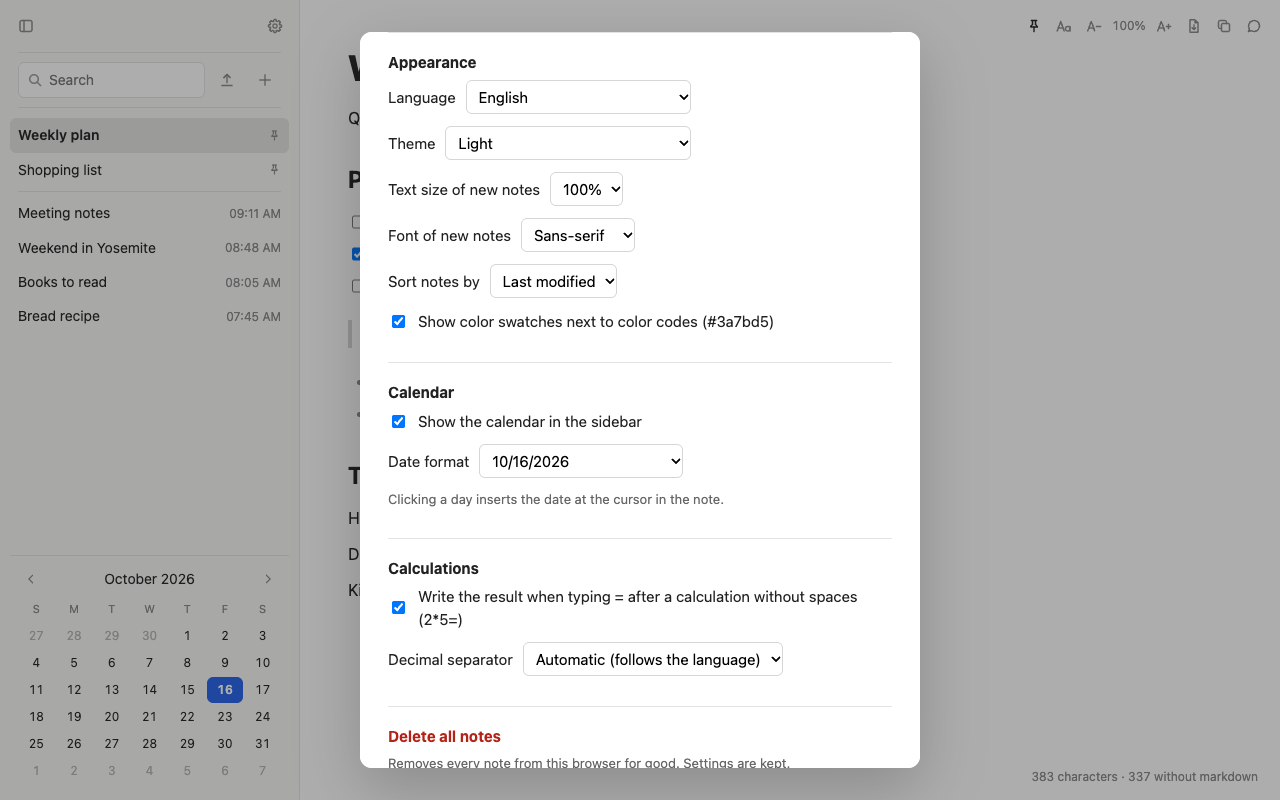
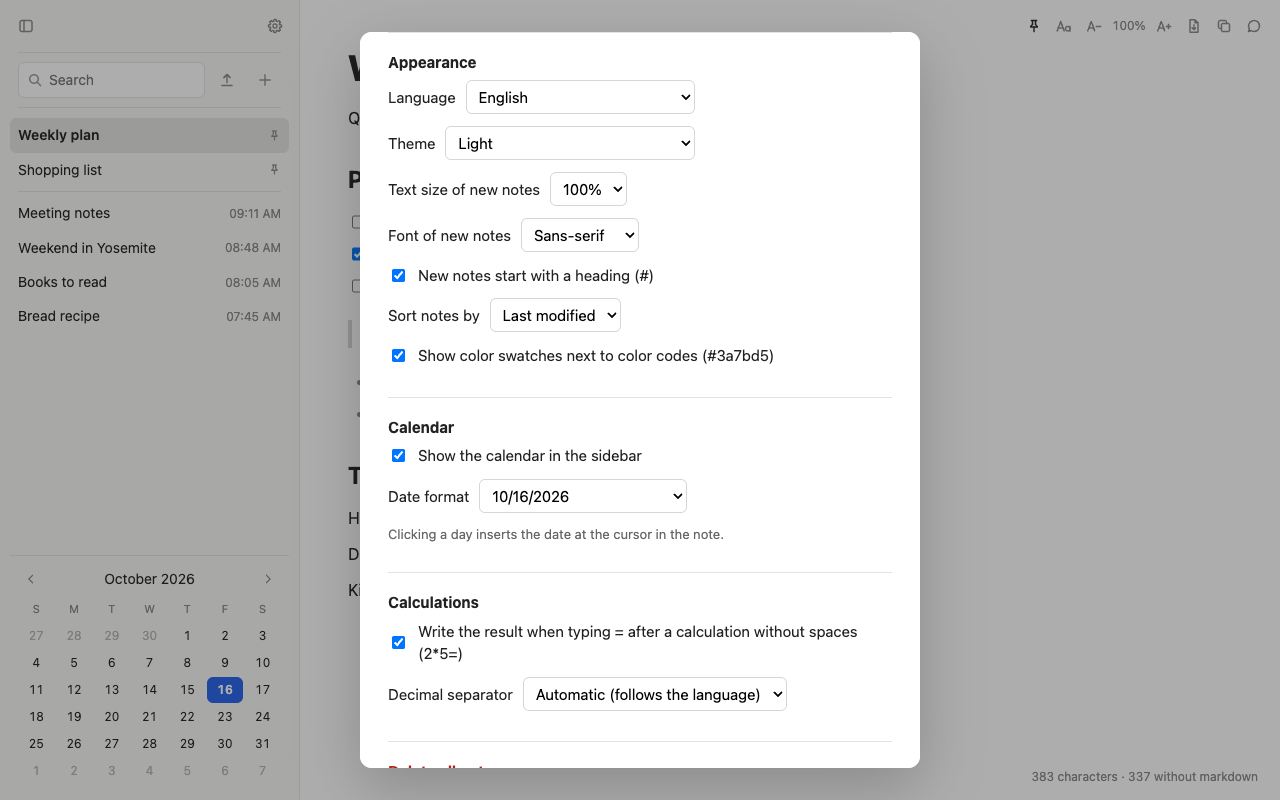
New notes start with a level-1 heading (setting on by default)

Changed region(s): [[0.2812, 0.4375, 0.6562, 0.9062], [0.2812, 0.3125, 0.5938, 0.4062], [0.3125, 0.9062, 0.625, 0.9688]]

diff --git a/src/backup.test.ts b/src/backup.test.ts
@@ -41,9 +41,9 @@ beforeEach(() => {
 
 describe('createBackup', () => {
   test('follows the SPEC format and includes each note in markdown', () => {
-    const backup = createBackup([fullNote()], { autoBackupMinutes: 60, sidebarCollapsed: false, theme: 'auto', noteSort: 'updated', noteFont: 'sans', newNoteFont: 'sans', newNoteTextSize: 100, language: 'auto', showCalendar: false, dateFormat: 'long', colorSwatches: true, calculations: true, decimalSeparator: 'auto' }, 999)
+    const backup = createBackup([fullNote()], { autoBackupMinutes: 60, sidebarCollapsed: false, theme: 'auto', noteSort: 'updated', noteFont: 'sans', newNoteFont: 'sans', newNoteTextSize: 100, language: 'auto', showCalendar: false, dateFormat: 'long', colorSwatches: true, calculations: true, decimalSeparator: 'auto', newNoteHeading: true }, 999)
     expect(backup).toMatchObject({ app: 'draftab', version: 1, exportedAt: 999 })
-    expect(backup.settings).toEqual({ autoBackupMinutes: 60, sidebarCollapsed: false, theme: 'auto', noteSort: 'updated', noteFont: 'sans', newNoteFont: 'sans', newNoteTextSize: 100, language: 'auto', showCalendar: false, dateFormat: 'long', colorSwatches: true, calculations: true, decimalSeparator: 'auto' })
+    expect(backup.settings).toEqual({ autoBackupMinutes: 60, sidebarCollapsed: false, theme: 'auto', noteSort: 'updated', noteFont: 'sans', newNoteFont: 'sans', newNoteTextSize: 100, language: 'auto', showCalendar: false, dateFormat: 'long', colorSwatches: true, calculations: true, decimalSeparator: 'auto', newNoteHeading: true })
     expect(backup.notes[0].markdown).toBe('# Ideas\n\none **bold**\n\n- [x] done\n\n---')
   })
 })
@@ -51,13 +51,13 @@ describe('createBackup', () => {
 describe('round trip', () => {
   test('exporting and importing returns exactly the same notes', () => {
     const notes = [fullNote(), simpleNote('another', 50)]
-    const file = JSON.stringify(createBackup(notes, { autoBackupMinutes: 0, sidebarCollapsed: true, theme: 'auto', noteSort: 'updated', noteFont: 'sans', newNoteFont: 'sans', newNoteTextSize: 100, language: 'auto', showCalendar: true, dateFormat: 'numeric', colorSwatches: true, calculations: true, decimalSeparator: 'auto' }))
+    const file = JSON.stringify(createBackup(notes, { autoBackupMinutes: 0, sidebarCollapsed: true, theme: 'auto', noteSort: 'updated', noteFont: 'sans', newNoteFont: 'sans', newNoteTextSize: 100, language: 'auto', showCalendar: true, dateFormat: 'numeric', colorSwatches: true, calculations: true, decimalSeparator: 'auto', newNoteHeading: true }))
     expect(notesFromBackup(parseBackup(file))).toEqual(notes)
   })
 
   test("each note's text size goes into the file and comes back; old backups without it get 100%", () => {
     const big = { ...simpleNote('big', 1), textSize: 150 }
-    const backup = createBackup([big], { autoBackupMinutes: 0, sidebarCollapsed: false, theme: 'auto', noteSort: 'updated', noteFont: 'sans', newNoteFont: 'sans', newNoteTextSize: 100, language: 'auto', showCalendar: true, dateFormat: 'numeric', colorSwatches: true, calculations: true, decimalSeparator: 'auto' })
+    const backup = createBackup([big], { autoBackupMinutes: 0, sidebarCollapsed: false, theme: 'auto', noteSort: 'updated', noteFont: 'sans', newNoteFont: 'sans', newNoteTextSize: 100, language: 'auto', showCalendar: true, dateFormat: 'numeric', colorSwatches: true, calculations: true, decimalSeparator: 'auto', newNoteHeading: true })
     expect(backup.notes[0].textSize).toBe(150)
     expect(notesFromBackup(parseBackup(JSON.stringify(backup)))[0].textSize).toBe(150)
     const { textSize: _textSize, ...old } = backup.notes[0]
@@ -66,7 +66,7 @@ describe('round trip', () => {
 
   test("each note's font goes into the file and comes back; notes without one stay without", () => {
     const serif = { ...simpleNote('serif', 1), font: 'serif' as const }
-    const settings = { autoBackupMinutes: 0, sidebarCollapsed: false, theme: 'auto', noteSort: 'updated', noteFont: 'mono', newNoteFont: 'sans', newNoteTextSize: 100, language: 'auto', showCalendar: true, dateFormat: 'numeric', colorSwatches: true, calculations: true, decimalSeparator: 'auto' } as const
+    const settings = { autoBackupMinutes: 0, sidebarCollapsed: false, theme: 'auto', noteSort: 'updated', noteFont: 'mono', newNoteFont: 'sans', newNoteTextSize: 100, language: 'auto', showCalendar: true, dateFormat: 'numeric', colorSwatches: true, calculations: true, decimalSeparator: 'auto', newNoteHeading: true } as const
     const { font: _font, ...old } = simpleNote('old', 2) // from before fonts were per note
     const backup = createBackup([serif, old], settings)
     const restored = notesFromBackup(parseBackup(JSON.stringify(backup)))
@@ -78,7 +78,7 @@ describe('round trip', () => {
 
   test('pinned notes go into the file and come back; old backups without it import as not pinned', () => {
     const pinned = { ...simpleNote('pinned', 1), pinned: true }
-    const settings = { autoBackupMinutes: 0, sidebarCollapsed: false, theme: 'auto', noteSort: 'updated', noteFont: 'sans', newNoteFont: 'sans', newNoteTextSize: 100, language: 'auto', showCalendar: true, dateFormat: 'numeric', colorSwatches: true, calculations: true, decimalSeparator: 'auto' } as const
+    const settings = { autoBackupMinutes: 0, sidebarCollapsed: false, theme: 'auto', noteSort: 'updated', noteFont: 'sans', newNoteFont: 'sans', newNoteTextSize: 100, language: 'auto', showCalendar: true, dateFormat: 'numeric', colorSwatches: true, calculations: true, decimalSeparator: 'auto', newNoteHeading: true } as const
     const backup = createBackup([pinned], settings)
     expect(backup.notes[0].pinned).toBe(true)
     expect(notesFromBackup(parseBackup(JSON.stringify(backup)))[0].pinned).toBe(true)
@@ -106,7 +106,7 @@ describe('round trip', () => {
 describe('settings in the backup', () => {
   test('every setting goes into the file and comes back on import', async () => {
     // Non-default values in every field
-    const chosen = { autoBackupMinutes: 10080, sidebarCollapsed: true, theme: 'dark', noteSort: 'title', noteFont: 'serif', newNoteFont: 'mono', newNoteTextSize: 120, language: 'pt', showCalendar: false, dateFormat: 'short', colorSwatches: false, calculations: false, decimalSeparator: ',' } as const
+    const chosen = { autoBackupMinutes: 10080, sidebarCollapsed: true, theme: 'dark', noteSort: 'title', noteFont: 'serif', newNoteFont: 'mono', newNoteTextSize: 120, language: 'pt', showCalendar: false, dateFormat: 'short', colorSwatches: false, calculations: false, decimalSeparator: ',', newNoteHeading: false } as const
     await saveSettings(chosen)
     await saveNote(simpleNote('x', 1))
     const file = JSON.stringify(createBackup(await listNotes(), await readSettings()))
@@ -114,7 +114,7 @@ describe('settings in the backup', () => {
 
     // Reset everything to the defaults and import
     await replaceAll([], {})
-    expect(await readSettings()).toEqual({ autoBackupMinutes: 0, sidebarCollapsed: false, theme: 'auto', noteSort: 'updated', noteFont: 'sans', newNoteFont: 'sans', newNoteTextSize: 100, language: 'auto', showCalendar: true, dateFormat: 'numeric', colorSwatches: true, calculations: true, decimalSeparator: 'auto' })
+    expect(await readSettings()).toEqual({ autoBackupMinutes: 0, sidebarCollapsed: false, theme: 'auto', noteSort: 'updated', noteFont: 'sans', newNoteFont: 'sans', newNoteTextSize: 100, language: 'auto', showCalendar: true, dateFormat: 'numeric', colorSwatches: true, calculations: true, decimalSeparator: 'auto', newNoteHeading: true })
     const backup = parseBackup(file)
     await replaceAll(notesFromBackup(backup), backup.settings)
     expect(await readSettings()).toEqual(chosen)
@@ -125,12 +125,12 @@ describe('settings in the backup', () => {
     const settings = await readSettings()
     const backup = createBackup([], settings)
     expect(Object.keys(backup.settings).sort()).toEqual(Object.keys(settings).sort())
-    expect(Object.keys(settings).sort()).toEqual(['autoBackupMinutes', 'calculations', 'colorSwatches', 'dateFormat', 'decimalSeparator', 'language', 'newNoteFont', 'newNoteTextSize', 'noteFont', 'noteSort', 'showCalendar', 'sidebarCollapsed', 'theme'])
+    expect(Object.keys(settings).sort()).toEqual(['autoBackupMinutes', 'calculations', 'colorSwatches', 'dateFormat', 'decimalSeparator', 'language', 'newNoteFont', 'newNoteHeading', 'newNoteTextSize', 'noteFont', 'noteSort', 'showCalendar', 'sidebarCollapsed', 'theme'])
   })
 })
 
 describe('parseBackup rejects invalid files', () => {
-  const valid = () => createBackup([simpleNote('a', 1)], { autoBackupMinutes: 0, sidebarCollapsed: false, theme: 'auto', noteSort: 'updated', noteFont: 'sans', newNoteFont: 'sans', newNoteTextSize: 100, language: 'auto', showCalendar: true, dateFormat: 'numeric', colorSwatches: true, calculations: true, decimalSeparator: 'auto' })
+  const valid = () => createBackup([simpleNote('a', 1)], { autoBackupMinutes: 0, sidebarCollapsed: false, theme: 'auto', noteSort: 'updated', noteFont: 'sans', newNoteFont: 'sans', newNoteTextSize: 100, language: 'auto', showCalendar: true, dateFormat: 'numeric', colorSwatches: true, calculations: true, decimalSeparator: 'auto', newNoteHeading: true })
   const withNote = (change: Record<string, unknown>) => {
     const b = valid()
     return JSON.stringify({ ...b, notes: [{ ...b.notes[0], ...change }] })
@@ -155,7 +155,7 @@ describe('parseBackup rejects invalid files', () => {
   })
 
   test('a backup with no notes is valid', () => {
-    const empty = createBackup([], { autoBackupMinutes: 0, sidebarCollapsed: false, theme: 'auto', noteSort: 'updated', noteFont: 'sans', newNoteFont: 'sans', newNoteTextSize: 100, language: 'auto', showCalendar: true, dateFormat: 'numeric', colorSwatches: true, calculations: true, decimalSeparator: 'auto' })
+    const empty = createBackup([], { autoBackupMinutes: 0, sidebarCollapsed: false, theme: 'auto', noteSort: 'updated', noteFont: 'sans', newNoteFont: 'sans', newNoteTextSize: 100, language: 'auto', showCalendar: true, dateFormat: 'numeric', colorSwatches: true, calculations: true, decimalSeparator: 'auto', newNoteHeading: true })
     expect(parseBackup(JSON.stringify(empty)).notes).toEqual([])
   })
 })

diff --git a/src/storage.test.ts b/src/storage.test.ts
@@ -8,6 +8,7 @@ import {
   listNotes,
   onNewNoteTextSizeChanged,
   onNewNoteFontChanged,
+  onNewNoteHeadingChanged,
   onNoteSortChanged,
   onNotesChanged,
   onDateFormatChanged,
@@ -103,13 +104,13 @@ describe('notes', () => {
 
 describe('settings', () => {
   test('with nothing saved, uses the defaults', async () => {
-    expect(await readSettings()).toEqual({ autoBackupMinutes: 0, sidebarCollapsed: false, theme: 'auto', noteSort: 'updated', noteFont: 'sans', newNoteFont: 'sans', newNoteTextSize: 100, language: 'auto', showCalendar: true, dateFormat: 'numeric', colorSwatches: true, calculations: true, decimalSeparator: 'auto' })
+    expect(await readSettings()).toEqual({ autoBackupMinutes: 0, sidebarCollapsed: false, theme: 'auto', noteSort: 'updated', noteFont: 'sans', newNoteFont: 'sans', newNoteTextSize: 100, language: 'auto', showCalendar: true, dateFormat: 'numeric', colorSwatches: true, calculations: true, decimalSeparator: 'auto', newNoteHeading: true })
   })
 
   test('saving one part keeps the rest', async () => {
     await saveSettings({ autoBackupMinutes: 60 })
     await saveSettings({ sidebarCollapsed: true })
-    expect(await readSettings()).toEqual({ autoBackupMinutes: 60, sidebarCollapsed: true, theme: 'auto', noteSort: 'updated', noteFont: 'sans', newNoteFont: 'sans', newNoteTextSize: 100, language: 'auto', showCalendar: true, dateFormat: 'numeric', colorSwatches: true, calculations: true, decimalSeparator: 'auto' })
+    expect(await readSettings()).toEqual({ autoBackupMinutes: 60, sidebarCollapsed: true, theme: 'auto', noteSort: 'updated', noteFont: 'sans', newNoteFont: 'sans', newNoteTextSize: 100, language: 'auto', showCalendar: true, dateFormat: 'numeric', colorSwatches: true, calculations: true, decimalSeparator: 'auto', newNoteHeading: true })
   })
 })
 
@@ -138,7 +139,7 @@ describe('deleteAllNotes', () => {
     await saveSettings({ autoBackupMinutes: 60, sidebarCollapsed: true })
     await deleteAllNotes()
     expect(await listNotes()).toEqual([])
-    expect(await readSettings()).toEqual({ autoBackupMinutes: 60, sidebarCollapsed: true, theme: 'auto', noteSort: 'updated', noteFont: 'sans', newNoteFont: 'sans', newNoteTextSize: 100, language: 'auto', showCalendar: true, dateFormat: 'numeric', colorSwatches: true, calculations: true, decimalSeparator: 'auto' })
+    expect(await readSettings()).toEqual({ autoBackupMinutes: 60, sidebarCollapsed: true, theme: 'auto', noteSort: 'updated', noteFont: 'sans', newNoteFont: 'sans', newNoteTextSize: 100, language: 'auto', showCalendar: true, dateFormat: 'numeric', colorSwatches: true, calculations: true, decimalSeparator: 'auto', newNoteHeading: true })
   })
 })
 
@@ -223,6 +224,23 @@ describe('text size of new notes', () => {
     await saveSettings({ noteSort: 'title' })
     await saveSettings({ newNoteTextSize: 90 })
     expect(received).toEqual([110, 90])
+  })
+})
+
+describe('new notes start with a heading', () => {
+  test('on by default; invalid values go back to on; tabs are told when it changes', async () => {
+    expect((await readSettings()).newNoteHeading).toBe(true)
+    await saveSettings({ newNoteHeading: false })
+    expect((await readSettings()).newNoteHeading).toBe(false)
+    await chrome.storage.local.set({ settings: { newNoteHeading: 'no' } })
+    expect((await readSettings()).newNoteHeading).toBe(true)
+
+    const values: boolean[] = []
+    await saveSettings({})
+    onNewNoteHeadingChanged((value) => values.push(value))
+    await saveSettings({ newNoteHeading: false })
+    await saveSettings({ theme: 'dark' })
+    expect(values).toEqual([false])
   })
 })
 

diff --git a/src/settings.ts b/src/settings.ts
@@ -29,6 +29,7 @@ const sortSelect = element<HTMLSelectElement>('#note-sort')
 const fontSelect = element<HTMLSelectElement>('#new-note-font')
 const textSizeSelect = element<HTMLSelectElement>('#new-note-text-size')
 const colorSwatchesBox = element<HTMLInputElement>('#color-swatches')
+const newNoteHeadingBox = element<HTMLInputElement>('#new-note-heading')
 const showCalendarBox = element<HTMLInputElement>('#show-calendar')
 const dateFormatSelect = element<HTMLSelectElement>('#date-format')
 const calculationsBox = element<HTMLInputElement>('#calculations')
@@ -41,7 +42,7 @@ closeButton.innerHTML = ICON_CLOSE
 
 export async function openSettings() {
   // Always opens with the current values and nothing left over from last time
-  const { autoBackupMinutes, language, theme, noteSort, newNoteFont, newNoteTextSize, showCalendar, dateFormat, colorSwatches, calculations, decimalSeparator } =
+  const { autoBackupMinutes, language, theme, noteSort, newNoteFont, newNoteTextSize, showCalendar, dateFormat, colorSwatches, calculations, decimalSeparator, newNoteHeading } =
     await readSettings()
   intervalSelect.value = String(autoBackupMinutes)
   languageSelect.value = language
@@ -50,6 +51,7 @@ export async function openSettings() {
   fontSelect.value = newNoteFont
   textSizeSelect.value = String(newNoteTextSize)
   colorSwatchesBox.checked = colorSwatches
+  newNoteHeadingBox.checked = newNoteHeading
   showCalendarBox.checked = showCalendar
   // Each format shown with today's date
   for (const option of dateFormatSelect.options) {
@@ -133,6 +135,11 @@ textSizeSelect.addEventListener('change', () => {
 sortSelect.addEventListener('change', () => {
   // Every tab (this one included) re-sorts its sidebar when it notices the change (onNoteSortChanged)
   saveSettings({ noteSort: sortSelect.value as NoteSort })
+})
+
+newNoteHeadingBox.addEventListener('change', () => {
+  // Every tab uses it for its next blank note (onNewNoteHeadingChanged)
+  saveSettings({ newNoteHeading: newNoteHeadingBox.checked })
 })
 
 colorSwatchesBox.addEventListener('change', () => {

diff --git a/src/newtab.ts b/src/newtab.ts
@@ -59,6 +59,7 @@ import {
   onImport,
   onLanguageChanged,
   onNewNoteFontChanged,
+  onNewNoteHeadingChanged,
   onNoteSortChanged,
   onNewNoteTextSizeChanged,
   onNotesChanged,
@@ -97,11 +98,12 @@ let renaming = false // while renaming, the list isn't redrawn
 let noteSort: NoteSort = 'updated' // sidebar order, from Settings
 let newNoteTextSize = 100 // text size new notes start with, from Settings
 let newNoteFont: NoteFont = 'sans' // font new notes start with, from Settings
+let newNoteHeading = true // blank notes start with a heading, from Settings
 let oldNoteFont: NoteFont = 'sans' // font of notes without their own (settings.noteFont)
 
-// A blank note with the text size and font chosen in Settings
+// A blank note with the text size, font and first-line heading chosen in Settings
 function newNote(): Note {
-  return newBlankNote(newNoteTextSize, newNoteFont)
+  return newBlankNote(newNoteTextSize, newNoteFont, newNoteHeading)
 }
 
 // ---------- Saving ----------
@@ -631,6 +633,11 @@ onNewNoteFontChanged((font) => {
   rememberNewNoteFont(font)
 })
 
+// Also only for notes created from now on (a blank note already open stays as it is)
+onNewNoteHeadingChanged((heading) => {
+  newNoteHeading = heading
+})
+
 // ---------- Character counts (bottom right) ----------
 
 const noteStats = element<HTMLDivElement>('#note-stats')
@@ -846,6 +853,7 @@ async function start() {
   noteSort = settings.noteSort
   newNoteTextSize = settings.newNoteTextSize
   newNoteFont = settings.newNoteFont
+  newNoteHeading = settings.newNoteHeading
   oldNoteFont = settings.noteFont
   rememberNewNoteFont(newNoteFont)
   showColorSwatches(settings.colorSwatches)

diff --git a/src/storage.ts b/src/storage.ts
@@ -28,6 +28,7 @@ export type Settings = {
   colorSwatches: boolean // color codes (#3a7bd5) show a swatch of the color
   calculations: boolean // typing "=" after a calculation ("2*5=") writes the result
   decimalSeparator: DecimalSeparatorSetting // of calculations ("2*5="); auto = the interface language's
+  newNoteHeading: boolean // blank notes start with an empty level-1 heading
 }
 
 export type Meta = {
@@ -50,6 +51,7 @@ const DEFAULT_SETTINGS: Settings = {
   colorSwatches: true,
   calculations: true,
   decimalSeparator: 'auto',
+  newNoteHeading: true,
 }
 const DEFAULT_META: Meta = { lastChangeAt: 0, lastBackupAt: 0, lastImportAt: 0 }
 
@@ -193,6 +195,7 @@ export async function readSettings(): Promise<Settings> {
   if (typeof result.colorSwatches !== 'boolean') result.colorSwatches = true
   if (typeof result.calculations !== 'boolean') result.calculations = true
   if (!isDecimalSeparator(result.decimalSeparator)) result.decimalSeparator = 'auto'
+  if (typeof result.newNoteHeading !== 'boolean') result.newNoteHeading = true
   return result
 }
 
@@ -238,6 +241,10 @@ export function onNoteSortChanged(callback: (order: NoteSort) => void) {
 
 export function onNewNoteFontChanged(callback: (font: NoteFont) => void) {
   onFieldChanged('settings', 'newNoteFont', (font) => isNoteFont(font) && callback(font))
+}
+
+export function onNewNoteHeadingChanged(callback: (heading: boolean) => void) {
+  onFieldChanged('settings', 'newNoteHeading', (heading) => typeof heading === 'boolean' && callback(heading))
 }
 
 export function onNewNoteTextSizeChanged(callback: (size: number) => void) {

diff --git a/src/notes.ts b/src/notes.ts
@@ -48,11 +48,12 @@ export function nextNoteFont(font: NoteFont): NoteFont {
 }
 
 // textSize and font: the "Text size of new notes" and "Font of new notes" settings
-export function newBlankNote(textSize = 100, font: NoteFont = 'sans'): Note {
+// heading: the first line starts as an empty level-1 heading ("New notes start with a heading")
+export function newBlankNote(textSize = 100, font: NoteFont = 'sans', heading = false): Note {
   const now = Date.now()
   return {
     id: crypto.randomUUID(),
-    doc: { type: 'doc', content: [{ type: 'paragraph' }] },
+    doc: { type: 'doc', content: [heading ? { type: 'heading', attrs: { level: 1 } } : { type: 'paragraph' }] },
     title: '',
     titleManual: false,
     textSize: validTextSize(textSize),

diff --git a/src/i18n.ts b/src/i18n.ts
@@ -119,6 +119,7 @@ const EN = {
   'sort.created': 'Date created',
   language: 'Language',
   'language.auto': 'Automatic (follows Chrome)',
+  newNoteHeading: 'New notes start with a heading (#)',
   colorSwatches: 'Show color swatches next to color codes (#3a7bd5)',
   showCalendar: 'Show the calendar in the sidebar',
   dateFormat: 'Date format',
@@ -257,6 +258,7 @@ const PT: Record<Key, string> = {
   'sort.created': 'Data de criação',
   language: 'Idioma',
   'language.auto': 'Automático (segue o Chrome)',
+  newNoteHeading: 'Novas notas começam com um título (#)',
   colorSwatches: 'Mostrar amostras ao lado de códigos de cor (#3a7bd5)',
   showCalendar: 'Mostrar o calendário na barra lateral',
   dateFormat: 'Formato da data',

diff --git a/src/notes.test.ts b/src/notes.test.ts
@@ -81,6 +81,17 @@ describe('tabTitle', () => {
   })
 })
 
+describe('newBlankNote', () => {
+  test('starts with an empty paragraph, or an empty level-1 heading when asked', () => {
+    expect(newBlankNote().doc).toEqual({ type: 'doc', content: [{ type: 'paragraph' }] })
+    expect(newBlankNote(100, 'sans', true).doc).toEqual({ type: 'doc', content: [{ type: 'heading', attrs: { level: 1 } }] })
+  })
+
+  test('a note with only the empty heading is empty (not saved)', () => {
+    expect(isEmptyNote(newBlankNote(100, 'sans', true))).toBe(true)
+  })
+})
+
 describe('isEmptyNote', () => {
   test('no text and no user-given title', () => {
     expect(isEmptyNote(noteWith(doc(paragraph(), paragraph())))).toBe(true)

diff --git a/newtab.html b/newtab.html
@@ -128,6 +128,10 @@
             </select>
           </label>
           <label class="row">
+            <input id="new-note-heading" type="checkbox" />
+            <span data-i18n="newNoteHeading">New notes start with a heading (#)</span>
+          </label>
+          <label class="row">
             <span data-i18n="sortBy">Sort notes by</span>
             <select id="note-sort">
               <option value="updated" data-i18n="sort.updated">Last modified</option>

diff --git a/SPEC.md b/SPEC.md
@@ -10,6 +10,7 @@ How Draftab behaves today, as rules (not visual details), plus the data model an
 
 ### Notes and the sidebar
 - A new tab opens a blank note with the cursor in the editor.
+- Blank notes (new tab, New note) start with an empty level-1 heading as the first line, with the cursor in it, as if `# ` had just been typed. It's only how the note starts: Backspace turns it into a normal line like any heading, and nothing puts it back later (not even when the note is emptied). Imported files and saved pages keep their own first line. "New notes start with a heading" in Settings (on by default) turns it off; changing it doesn't change a blank note already open.
 - An empty note (no text, no images and no user-set title) isn't saved: opening and closing a tab leaves no clutter, and a saved note that becomes empty leaves the list.
 - Autosave: the first keystroke creates the note right away; after that, ~500 ms after typing stops. Pending typing is saved when the tab is hidden or closed.
 - Several tabs at once: changes made in one tab show up in the others (last write wins). A note deleted in another tab is replaced by a blank note.
@@ -113,6 +114,7 @@ How Draftab behaves today, as rules (not visual details), plus the data model an
 - Theme: Automatic (follows the system's light/dark mode, live), Light or Dark. Default Automatic.
 - Font of new notes: Sans-serif (default), Serif or Monospace, using system fonts (no downloads): SF Pro / New York / SF Mono on macOS, Segoe UI / Georgia / Consolas and similar elsewhere. Only the note content uses it. New notes (new tab, New note, imported file) start with it; changing it doesn't change existing notes. Until it's first changed, it's the "note font" set before fonts were per note.
 - Theme and the open note's font are applied before the page shows up (no flash of the wrong ones).
+- New notes start with a heading: see "Notes and the sidebar".
 - Text size of new notes: 80% to 150% (the note's steps), default 100%. New notes (new tab, New note, imported file) start with it; changing it doesn't change existing notes. Notes from before this setting existed are 100%.
 - Sort notes by: see "Notes and the sidebar".
 - Show color swatches: see "Editor".
@@ -141,7 +143,7 @@ How Draftab behaves today, as rules (not visual details), plus the data model an
   `pinned` = the note is pinned in the sidebar; missing = not pinned.
   The Tiptap JSON is the source of truth (no conversion losses).
   Highlighted text has a `highlight` mark with `color: 'gray' | 'red' | 'orange' | 'yellow' | 'green' | 'blue'`.
-- `settings { autoBackupMinutes: 0 | 1 | 60 | 1440 | 10080 | 43200, sidebarCollapsed: boolean, theme: 'auto' | 'light' | 'dark', noteSort: 'updated' | 'title' | 'created', noteFont: 'sans' | 'serif' | 'mono', newNoteFont: 'sans' | 'serif' | 'mono', newNoteTextSize: number, language: 'auto' | 'en' | 'pt', showCalendar: boolean, dateFormat: 'numeric' | 'iso' | 'short' | 'long', colorSwatches: boolean, calculations: boolean, decimalSeparator: 'auto' | '.' | ',' }` (0 = off; `newNoteTextSize` = text size of new notes, in percent, default 100; `newNoteFont` = font of new notes, missing = `noteFont`; `noteFont` = the font of notes without their own, no longer changed from Settings; `language` = the interface language, default `auto`; `showCalendar` = the calendar shows in the sidebar, default `true`; `dateFormat` = the format of dates inserted from the calendar, default `numeric`; `colorSwatches` = color codes show a swatch, default `true`; `calculations` = typing `=` after a calculation writes the result, default `true`; `decimalSeparator` = the decimal separator of calculations, default `auto`). Invalid stored values fall back to the defaults (an unknown interval moves to the closest one).
+- `settings { autoBackupMinutes: 0 | 1 | 60 | 1440 | 10080 | 43200, sidebarCollapsed: boolean, theme: 'auto' | 'light' | 'dark', noteSort: 'updated' | 'title' | 'created', noteFont: 'sans' | 'serif' | 'mono', newNoteFont: 'sans' | 'serif' | 'mono', newNoteTextSize: number, language: 'auto' | 'en' | 'pt', showCalendar: boolean, dateFormat: 'numeric' | 'iso' | 'short' | 'long', colorSwatches: boolean, calculations: boolean, decimalSeparator: 'auto' | '.' | ',' , newNoteHeading: boolean }` (0 = off; `newNoteTextSize` = text size of new notes, in percent, default 100; `newNoteFont` = font of new notes, missing = `noteFont`; `noteFont` = the font of notes without their own, no longer changed from Settings; `language` = the interface language, default `auto`; `showCalendar` = the calendar shows in the sidebar, default `true`; `dateFormat` = the format of dates inserted from the calendar, default `numeric`; `colorSwatches` = color codes show a swatch, default `true`; `calculations` = typing `=` after a calculation writes the result, default `true`; `decimalSeparator` = the decimal separator of calculations, default `auto`). `newNoteHeading` = blank notes start with an empty level-1 heading, default `true`. Invalid stored values fall back to the defaults (an unknown interval moves to the closest one).
 - `meta { lastChangeAt: number, lastBackupAt: number, lastImportAt: number }` (`lastImportAt` marks an import or the deletion of all notes, and tells open tabs to reload)
 - `clip:<uuid>` = a captured page waiting for the new tab that turns it into a note: `{ title, url, html, text?, excerpt?, createdAt }` (`text` = the plain selected text Chrome gives, the fallback for selections; `excerpt` = it's a selection). The new tab deletes it when it reads it; leftovers older than 10 minutes are deleted when the service worker starts and before each capture. Never in backups.
 - Backup file:

diff --git a/README.md b/README.md
@@ -17,7 +17,7 @@ Everything below is described as rules in [SPEC.md](SPEC.md); this is the overvi
 
 ### Notes
 
-- **New tab = new note**, with the cursor already in the editor. An empty note (no text and no title of its own) is never saved, so opening and closing tabs leaves no clutter; a note that becomes empty leaves the list.
+- **New tab = new note**, with the cursor already in the editor, on a first line that starts as a heading (the note's title; Backspace makes it a normal line, and Settings can turn this off). An empty note (no text and no title of its own) is never saved, so opening and closing tabs leaves no clutter; a note that becomes empty leaves the list.
 - **Autosave**: the first keystroke creates the note; after that it saves ~500 ms after typing stops, and pending typing is saved when the tab is hidden or closed.
 - **Automatic title**: until you rename a note, its title is its first line (up to 80 characters). Renaming to empty goes back to automatic. The browser tab shows the open note's title.
 - **Several tabs at once**: a change in one tab shows up in the others (last write wins); a note deleted elsewhere is replaced by a blank one. Reloading a tab reopens the same note.
@@ -70,7 +70,7 @@ At the bottom right, **character counts**: the note as markdown (the same text a
 
 - **Backup**: export and import a JSON file with every note and setting (each note also in markdown, readable without Draftab). Importing validates the file, asks for confirmation and replaces everything; open tabs reload.
 - **Automatic backup** to `Downloads/draftab-backups/`: every minute, hour, day, week or month, only when something changed, even with no tab open (as long as Chrome is running). Files are named `draftab_YYYY-MM-DD-HHhMM.json`.
-- **Appearance**: light, dark or automatic theme (follows the system, live); interface in English or Portuguese (automatic follows Chrome); font and text size of new notes; sort order; color swatches on/off.
+- **Appearance**: light, dark or automatic theme (follows the system, live); interface in English or Portuguese (automatic follows Chrome); font and text size of new notes; whether new notes start with a heading; sort order; color swatches on/off.
 - **Calendar** (show it, date format) and **Calculations** (on/off, decimal separator).
 - **Delete all notes**, after typing a confirmation phrase; settings are kept.
 - Every setting applies to all open tabs immediately and goes into backups.
@@ -198,7 +198,7 @@ docs/store/              Chrome Web Store images (en and pt-BR)
 - Everything goes to `chrome.storage.local` (with the `unlimitedStorage` permission), always through `src/storage.ts`.
 - **One key per note** (`note:<id>`), so not everything is rewritten on every keystroke. The note stores the **Tiptap JSON**, which is the source of truth; markdown only exists on export.
 - Saved pages pass from the service worker to the new tab as a temporary `clip:<id>` key, deleted as soon as the tab reads it.
-- `settings` holds the settings (automatic backup interval, collapsed sidebar, theme, note sort order, font and text size of new notes, language, calendar and date format, color swatches, calculations and decimal separator) and `meta` holds timestamps: last change, last automatic backup and last import (which makes open tabs reload).
+- `settings` holds the settings (automatic backup interval, collapsed sidebar, theme, note sort order, font and text size of new notes, whether they start with a heading, language, calendar and date format, color swatches, calculations and decimal separator) and `meta` holds timestamps: last change, last automatic backup and last import (which makes open tabs reload).
 - Each note keeps its own font, text size and pinned state. Highlights are a mark in the note (the color's name only). Tags and color swatches are only editor decorations: the stored note never changes because of them.
 - The language, the theme and the font of new notes are also copied to the page's `localStorage` (and the open note's font to `sessionStorage`), so they're applied before the first paint; the note open in each tab is kept in its `sessionStorage`, so a reload reopens it.
 - Saving is automatic, after ~500 ms without typing. Other tabs get the change through `chrome.storage.onChanged`; if two tabs edit the same note, the last write wins.

diff --git a/CHANGELOG.md b/CHANGELOG.md
@@ -7,6 +7,7 @@ All notable changes to Draftab are documented here. The format is based on [Keep
 Ready to submit to the Chrome Web Store as an update.
 
 ### Added
+- **New notes start with a heading**: a blank note (new tab, New note) opens with its first line as an empty level-1 heading, cursor in it, as if `# ` had been typed. Only how it starts: Backspace turns it into a normal line, and nothing puts it back. Imported files and saved pages don't change. "New notes start with a heading" in Settings → Appearance (on by default) turns it off; it applies to every open tab and goes into backups.
 - **Highlight**: selecting text shows a small bar above it with "No color" and six colors (gray, red, orange, yellow, green, blue), each with its own shade in the light and dark themes; Cmd/Ctrl+Shift+H highlights with the last color used (or removes it). Works in any text except code, together with bold, links and the other marks. The highlight is saved in the note and in backups, but not in the exported `.md`, copies or Copy for WhatsApp.
 - **Images** in notes, from web addresses: the note keeps only the address, never the file. Type `![description](url)`, paste an image address on an empty line, or paste an image copied from a page ("Copy image") or HTML with images. Images show at their natural size (at most the note's width), move with the block handle and, when they can't load, show their address in a box. Export as Markdown and plain-text copies write `![description](url)`, Copy for WhatsApp writes the address, and importing a `.md` file reads images on a line of their own. A pasted screenshot or file is ignored. A note with only images is saved like any other.
 - **Save web pages**: clicking Draftab's toolbar icon saves the page's main text (without menus, ads or footers) as a new note, and "Save to Draftab" in the right-click menu saves just the selected passage (titled "Excerpt: <page title>", "Trecho:" in Portuguese). The note starts with the page title and a link to the page; headings, lists, quotes, code, links, formatting and images (minus tiny ones like icons and tracking pixels) are kept, tables' layout is not. It opens in a new Draftab tab, next to the page. When nothing can be saved (pages Chrome doesn't let extensions read, like `chrome://` pages and the Web Store, or no main text), no tab opens: the icon shows a red "!" with the reason in its tooltip, plus a notice in the corner of the page when Draftab can run there. New permissions: `activeTab`, `scripting`, `contextMenus`.
